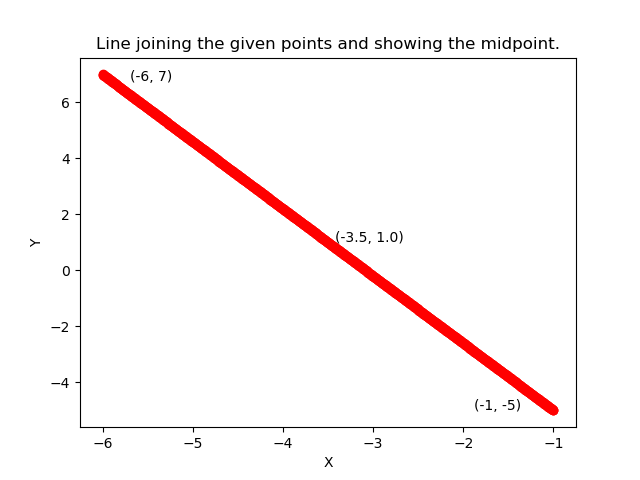
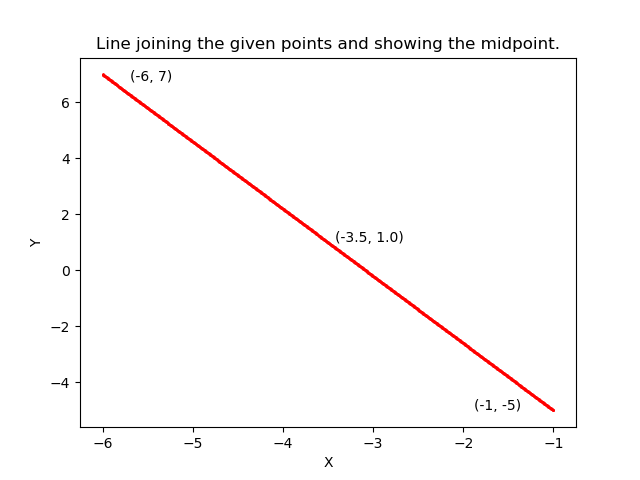
q7-changes

Changed region(s): [[0.1562, 0.125, 0.875, 0.875]]

diff --git a/mat-geo-ques/q7/codes/plot.py b/mat-geo-ques/q7/codes/plot.py
@@ -37,7 +37,7 @@ gen.generate_line_points(
 
 fig = plt.figure()
 ax = plt.gca()
-ax.scatter(points[:, 0], points[:, 1], c='r', marker='o')
+ax.scatter(points[:, 0], points[:, 1],s=1, c='r', marker='o')
 plt.annotate( '(-6, 7)',(x1, y1), textcoords="offset points", xytext = (35,-5), ha = "center")
 plt.annotate('(-1, -5)',(x2, y2),textcoords = "offset points", xytext = (-40, 0), ha = "center")
 plt.annotate( f"({x3.value}, {y3.value})", (x3.value, y3.value),textcoords="offset points"
